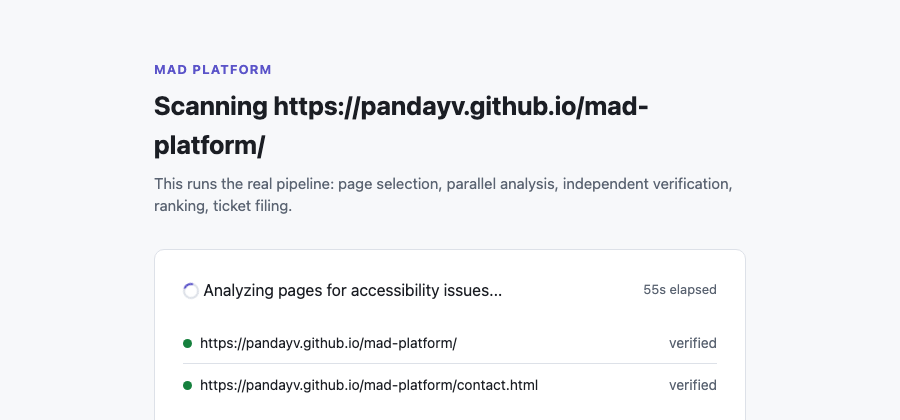
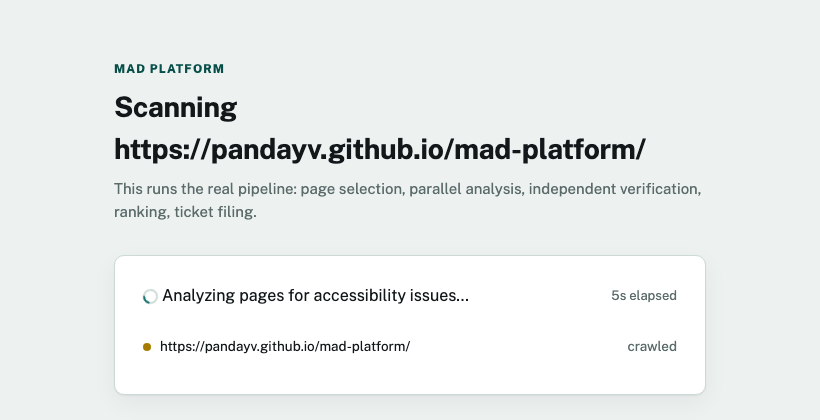
Bring documentation and diagram up to date with today's build
- docs/architecture.html: add the Gemma persistent-memory loop as its
  own zone (distinct from the WCAG knowledge-base loop), Slack/Jira
  callouts on the route-and-act step, and Google ADK / Ollama+Gemma /
  Jira / Slack in the infrastructure grid. Verified in both light and
  dark mode.
- README.md: regenerated screenshots against the live redesigned app
  (the old ones predated the theme/dashboard/chart work and showed the
  previous purple design), updated the project structure listing to
  include Pattern Miner, the ADK/Gemma clients, notify.py, theme.py,
  and the three Dockerfiles, and softened the gcp-deploy.sh reference
  now that SETUP.md covers the piece it doesn't.
- review_escalations.py: fixed a real bug -- the CLI review tool didn't
  know about the new "learned_pattern" escalation kind and would have
  crashed or mis-resolved one; also dropped a stale comment claiming
  Jira credentials aren't configured (they are, in production) in favor
  of the same real-Jira-when-configured logic web/app.py already uses.

diff --git a/docs/architecture.html b/docs/architecture.html
@@ -422,9 +422,10 @@ footer a:hover { text-decoration: underline; }
         </div>
         <div class="step-desc">One escalation gate: low confidence or critical severity routes to a human; everything else is fully autonomous.</div>
         <div class="route-split">
-          <div class="branch-item" style="background:var(--accent-tool-tint)"><b>Action Agent</b>Files a ticket automatically. Idempotent — a retried step never double-files.<div class="lens-tags"><span class="lens-tag">idempotency</span></div></div>
-          <div class="branch-item" style="background:var(--accent-human-tint)"><b>SME review queue</b>Confirm → files the ticket. Dismiss → never becomes a ticket.<div class="lens-tags"><span class="lens-tag">human approval</span></div></div>
+          <div class="branch-item" style="background:var(--accent-tool-tint)"><b>Action Agent</b>Files a real Jira ticket automatically. Idempotent — a retried step never double-files.<div class="lens-tags"><span class="lens-tag">idempotency</span></div></div>
+          <div class="branch-item" style="background:var(--accent-human-tint)"><b>SME review queue</b>Confirm → files the ticket, live-updates the report the customer already has open. Dismiss → never becomes a ticket.<div class="lens-tags"><span class="lens-tag">human approval</span></div></div>
         </div>
+        <div class="step-desc" style="margin-top:10px">Both paths post to <b>Slack</b> — a real-time alert when something's escalated, a summary when the scan completes.</div>
       </div>
     </div>
 
@@ -447,6 +448,24 @@ footer a:hover { text-decoration: underline; }
 </div>
 
 <div class="zone">
+  <div class="zone-label">Memory — Analyst/Editor's own judgment</div>
+  <div class="zone-note">Distinct from the knowledge base above: that loop keeps reference material current, this one tunes the pipeline's own behavior from its real history. A self-hosted Gemma, not Vertex AI — a background batch job with no live-request latency, exactly the workload Gemma's on-device design targets.</div>
+  <div class="loop-diagram">
+    <div class="loop-node mono">Editor's dismissal history</div>
+    <div class="loop-arrow">→</div>
+    <div class="loop-node mono">Weekly Scheduler tick</div>
+    <div class="loop-arrow">→</div>
+    <div class="loop-node mono">Cloud Run Job — self-hosted Gemma</div>
+    <div class="loop-arrow">→</div>
+    <div class="loop-node decision mono">Consistent pattern?</div>
+    <div class="loop-arrow">→</div>
+    <div class="loop-node mono">SME review queue</div>
+  </div>
+  <div class="step-desc" style="margin-top:10px">Confirmed → grounds Editor's prompt on every future scan.</div>
+  <div class="lens-tags" style="margin-top:14px"><span class="lens-tag">persistent memory</span><span class="lens-tag">feedback loop — self-improving</span><span class="lens-tag">human approval before judgment changes</span><span class="lens-tag">Gemma — self-hosted</span></div>
+</div>
+
+<div class="zone">
   <div class="zone-label">Resumability</div>
   <div class="zone-note">Every stage above checkpoints its completion to Firestore as it finishes. A restart — crash, redeploy — reads the last completed checkpoint and resumes from the next incomplete stage. It never blindly restarts from the top, and never assumes a stage completed just because the job record exists.</div>
   <div class="lens-tags"><span class="lens-tag">resumability</span><span class="lens-tag">crash-safe by design</span></div>
@@ -455,12 +474,16 @@ footer a:hover { text-decoration: underline; }
 <div class="zone">
   <div class="zone-label">Google Cloud infrastructure</div>
   <div class="infra-grid">
-    <div class="infra-item"><div class="name">Cloud Run</div><div class="role">4 services, scale-to-zero, least-privilege per service</div></div>
+    <div class="infra-item"><div class="name">Cloud Run</div><div class="role">4 scale-to-zero services + 1 Job, least-privilege per service</div></div>
+    <div class="infra-item"><div class="name">Google ADK</div><div class="role">LlmAgent + Runner wraps every real-time Gemini call</div></div>
     <div class="infra-item"><div class="name">Vertex AI · Gemini</div><div class="role">Flash-lite for volume, Flash for judgment calls</div></div>
-    <div class="infra-item"><div class="name">Firestore</div><div class="role">Job checkpoints, findings, escalations, KB version</div></div>
+    <div class="infra-item"><div class="name">Ollama · Gemma</div><div class="role">Self-hosted on the pattern-miner Job — the one background call, not real-time</div></div>
+    <div class="infra-item"><div class="name">Firestore</div><div class="role">Job checkpoints, findings, escalations, KB version, learned patterns</div></div>
     <div class="infra-item"><div class="name">Cloud Storage</div><div class="role">Generated HTML reports</div></div>
-    <div class="infra-item"><div class="name">Cloud Scheduler</div><div class="role">Drives the WCAG freshness tick</div></div>
-    <div class="infra-item"><div class="name">Secret Manager</div><div class="role">Access codes, ticketing credentials</div></div>
+    <div class="infra-item"><div class="name">Cloud Scheduler</div><div class="role">WCAG freshness tick (6h), Gemma pattern-miner (weekly)</div></div>
+    <div class="infra-item"><div class="name">Secret Manager</div><div class="role">Access codes, Jira + Slack credentials</div></div>
+    <div class="infra-item"><div class="name">Jira Cloud</div><div class="role">Real ticket filing — not a mock sink in production</div></div>
+    <div class="infra-item"><div class="name">Slack</div><div class="role">Real-time escalation alerts, scan-complete summaries</div></div>
     <div class="infra-item"><div class="name">Playwright</div><div class="role">Headless render, screenshot, computed styles</div></div>
   </div>
 </div>

diff --git a/review_escalations.py b/review_escalations.py
@@ -12,16 +12,31 @@ from __future__ import annotations
 
 import argparse
 
+import os
+
 from mad_platform.agents.action_agent import resolve_escalation
+from mad_platform.agents.pattern_miner import resolve_pattern_escalation
 from mad_platform.agents.wcag_auto_heal import resolve_kb_escalation
 from mad_platform.state import firestore_client as fs
-from mad_platform.tools.issue_sink import MockIssueSink
+from mad_platform.tools.issue_sink import IssueSink, JiraIssueSink, MockIssueSink
+
+
+def _issue_sink() -> IssueSink:
+    """Real Jira when JIRA_URL is set in the environment (the live app
+    reads the same credentials from Secret Manager); MockIssueSink
+    otherwise, so this still runs without live Jira credentials.
+    """
+    if os.environ.get("JIRA_URL"):
+        return JiraIssueSink()
+    return MockIssueSink()
 
 
 def list_pending() -> None:
-    """Two kinds of escalation share this one queue -- a low-confidence or
-    critical finding, or a WCAG version change the auto-heal loop couldn't
-    confidently classify as minor. Same human-approval mechanism, two
+    """Three kinds of escalation share this one queue -- a low-confidence
+    or critical finding, a WCAG version change the auto-heal loop
+    couldn't confidently classify as minor, or a mined dismissal pattern
+    (mad_platform/agents/pattern_miner.py) awaiting confirmation before it
+    becomes persistent memory. Same human-approval mechanism, three
     different judgment calls behind it.
     """
     pending = fs.list_pending_escalations()
@@ -36,6 +51,11 @@ def list_pending() -> None:
             print(f"  {e['old_version']} -> {e['new_version']}  (classified: {e['change_type']}, confidence={e['confidence']:.2f})")
             print(f"  Reasoning: {e['reasoning']}")
             print(f"  Why flagged: not a confident 'minor' classification -- needs review before re-embedding")
+        elif e.get("kind") == "learned_pattern":
+            print(f"  Type: learned dismissal pattern (Gemma-mined)")
+            print(f"  WCAG {e['wcag_criterion']}  seen {e['occurrence_count']} time(s)  confidence={e['confidence']:.2f}")
+            print(f"  Pattern: {e['pattern_description']}")
+            print(f"  Why flagged: needs confirmation before it grounds Editor's prompt on future scans")
         else:
             print(f"  Page: {e['page_url']}")
             print(f"  WCAG {e['wcag_criterion']}  severity={e['severity']}  confidence={e['editor_confidence']:.2f}")
@@ -50,7 +70,8 @@ def resolve(escalation_id: str, disposition: str) -> None:
         print(f"No pending escalation with id {escalation_id!r}.")
         return
 
-    if escalation.get("kind") == "kb_version_change":
+    kind = escalation.get("kind")
+    if kind == "kb_version_change":
         resolve_kb_escalation(escalation_id, disposition=disposition, reviewer="cli-review")
         if disposition == "confirm":
             print(f"Confirmed. Knowledge base re-embedded and advanced to {escalation['new_version']}.")
@@ -58,8 +79,15 @@ def resolve(escalation_id: str, disposition: str) -> None:
             print(f"Dismissed. Knowledge base stays on its current version -- corpus needs a real content update first.")
         return
 
-    sink = MockIssueSink()  # real Jira credentials not yet configured
-    ticket = resolve_escalation(sink, escalation_id, disposition=disposition, reviewer="cli-review")
+    if kind == "learned_pattern":
+        resolve_pattern_escalation(escalation_id, disposition=disposition, reviewer="cli-review")
+        if disposition == "confirm":
+            print(f"Confirmed. This pattern now grounds Editor's prompt on every future scan.")
+        else:
+            print("Dismissed. Discarded -- the miner won't re-propose this exact pattern.")
+        return
+
+    ticket = resolve_escalation(_issue_sink(), escalation_id, disposition=disposition, reviewer="cli-review")
     if disposition == "confirm":
         print(f"Confirmed. Ticket filed: {ticket}")
     else:

diff --git a/README.md b/README.md
@@ -169,26 +169,32 @@ python run_scan.py https://example.com
 uvicorn mad_platform.web.app:app --port 8080
 ```
 
-See [`SETUP.md`](SETUP.md) for the full GCP provisioning guide and
-[`gcp-deploy.sh`](gcp-deploy.sh) for the infrastructure-as-code used to
-deploy this project's Cloud Run services, Firestore database, Pub/Sub
-topics, and service accounts.
+See [`SETUP.md`](SETUP.md) for the full GCP provisioning guide.
+[`gcp-deploy.sh`](gcp-deploy.sh) covers the core services, Firestore
+database, Pub/Sub topics, and service accounts; `SETUP.md` has the exact
+commands for the one piece it doesn't cover, the Gemma pattern-miner
+Cloud Run Job.
 
 ## Project structure
 
 ```
 mad_platform/
-  agents/        # Orchestrator, Analyst, Editor, Reporter, Action Agent, WCAG auto-heal
-  tools/         # Crawler, rule checks, AI checks, Gemini client, RAG, WCAG version fetch
+  agents/        # Orchestrator, Analyst, Editor, Reporter, Action Agent,
+                  # WCAG auto-heal, Pattern Miner (Gemma persistent memory)
+  tools/         # Crawler, rule checks, AI checks, ADK client, Gemma
+                  # client, RAG, WCAG version fetch, issue sink, Slack notify
   state/         # Firestore + Cloud Storage clients
-  web/           # The scan-submission UI and the WCAG-poller HTTP entrypoint
+  web/           # Scan-submission UI, status page, SME review queue,
+                  # the WCAG-poller HTTP entrypoint, shared theme/charts
   data/          # Curated WCAG success-criteria corpus
-docs/            # Demo site (GitHub Pages)
-run_scan.py               # CLI entry point for a one-time scan
-review_escalations.py     # SME review queue CLI
-check_wcag_version.py     # Manual trigger for the WCAG freshness check
-SETUP.md                  # GCP provisioning guide
-gcp-deploy.sh / gcp-cleanup.sh   # Infrastructure-as-code
+docs/            # Demo site + self-hosted architecture diagram (GitHub Pages)
+run_scan.py                    # CLI entry point for a one-time scan
+review_escalations.py          # SME review queue CLI (web UI is the primary surface)
+check_wcag_version.py          # Manual trigger for the WCAG freshness check
+mine_patterns.py               # Manual trigger for the Gemma pattern miner
+Dockerfile / Dockerfile.wcag_poller / Dockerfile.pattern_miner
+SETUP.md                       # GCP provisioning guide
+gcp-deploy.sh / gcp-cleanup.sh # Infrastructure-as-code (core services)
 ```
 
 ## Built during the hackathon submission window
